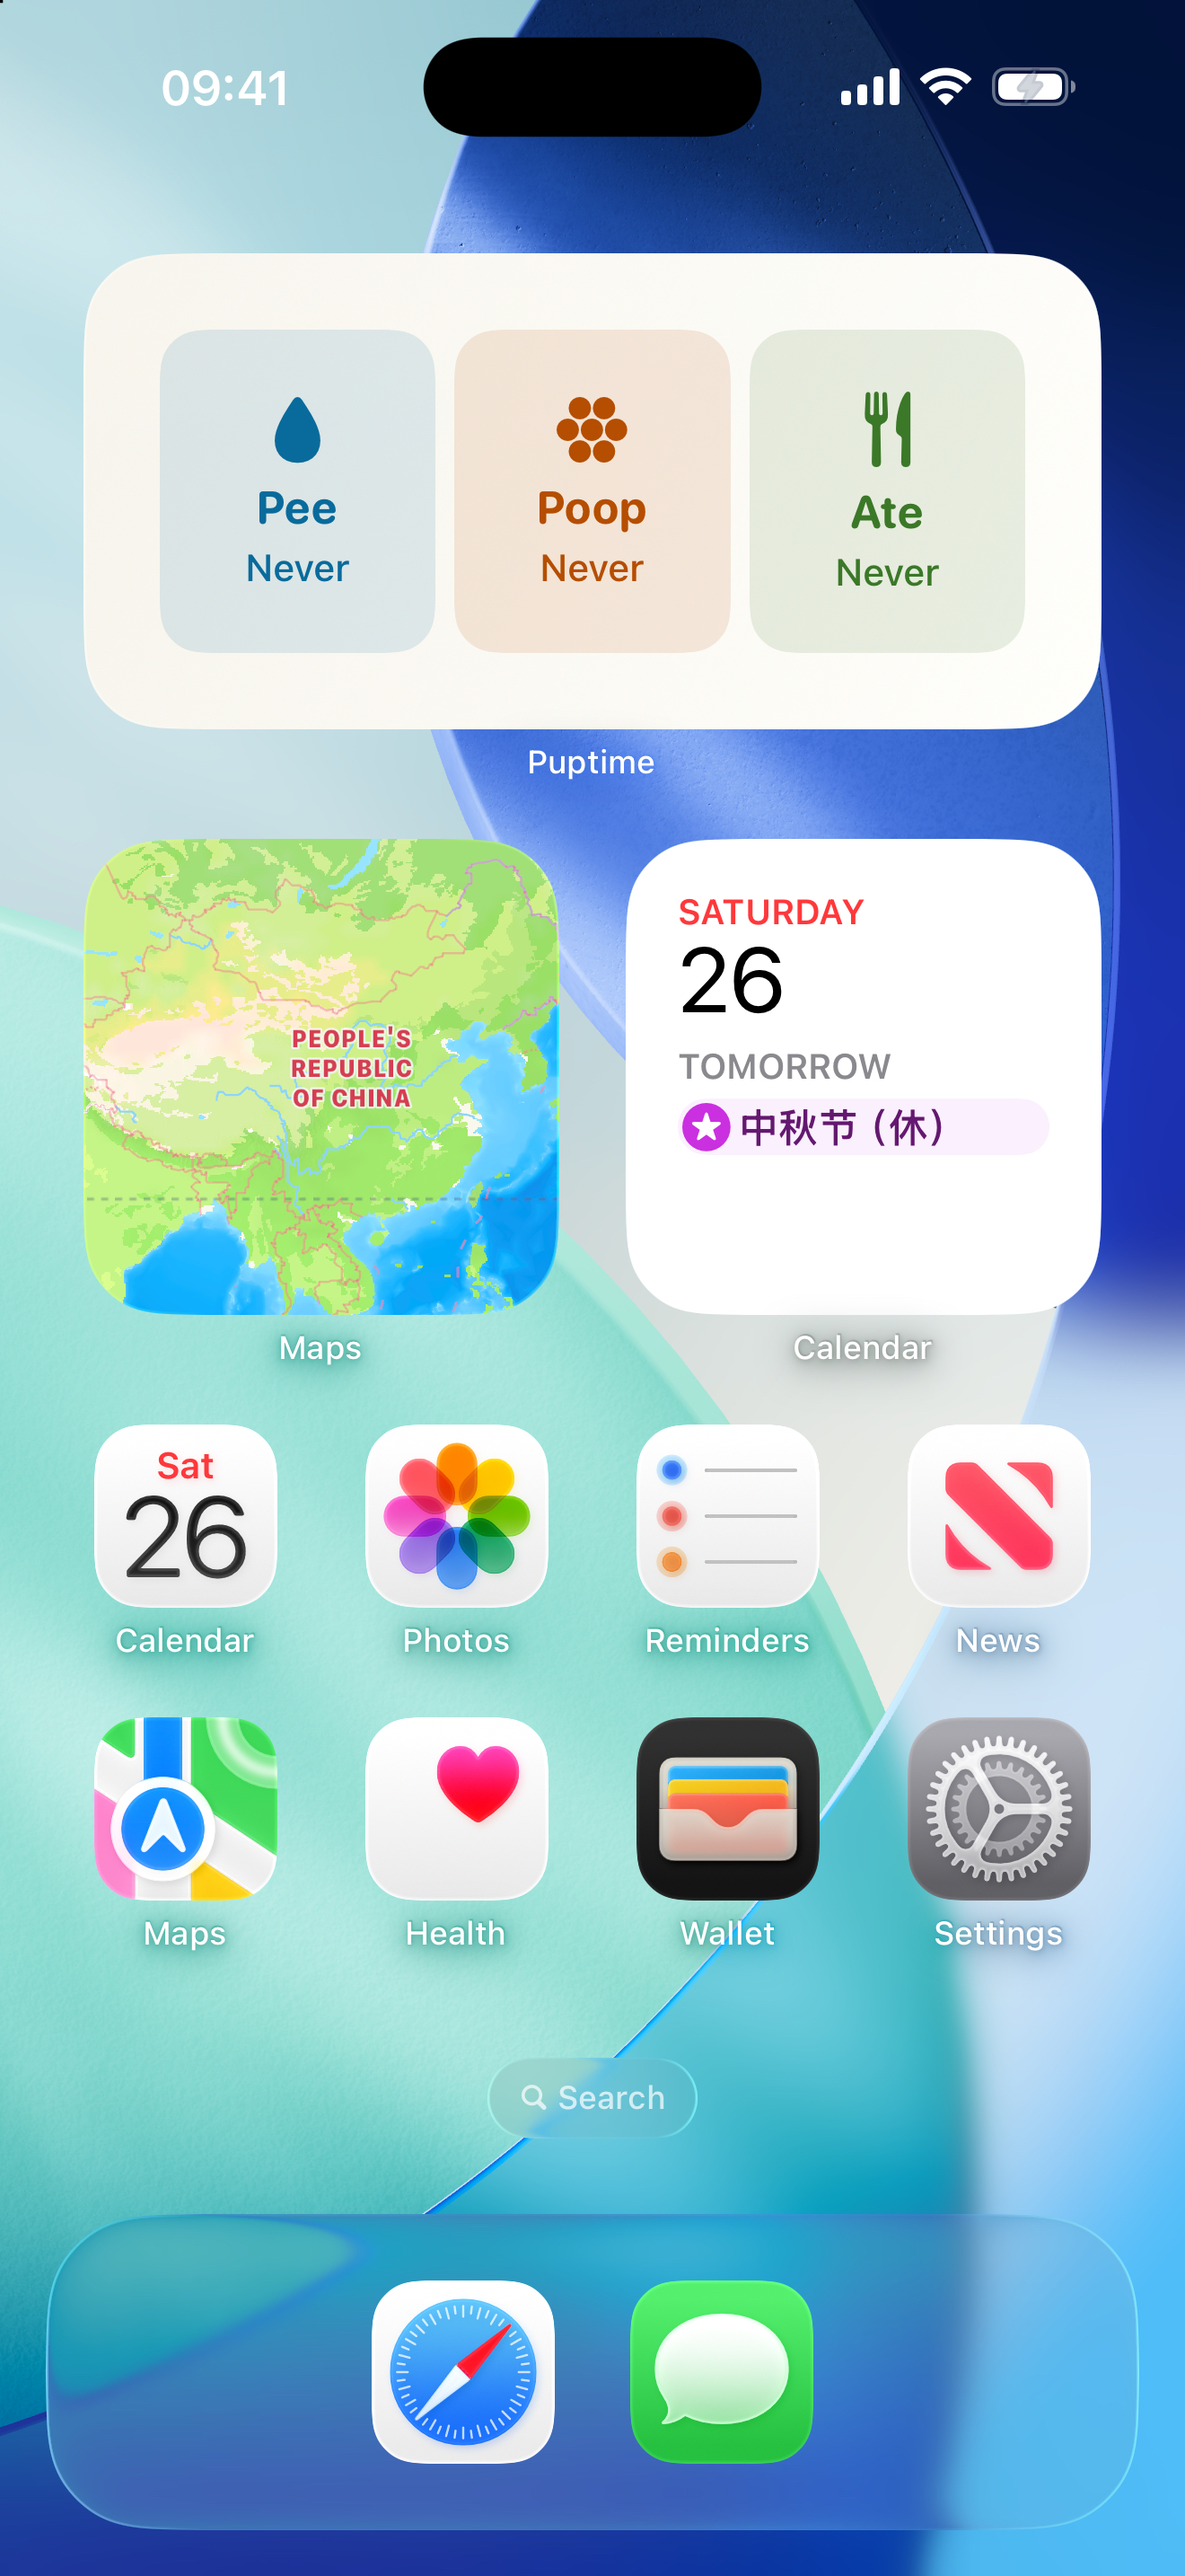
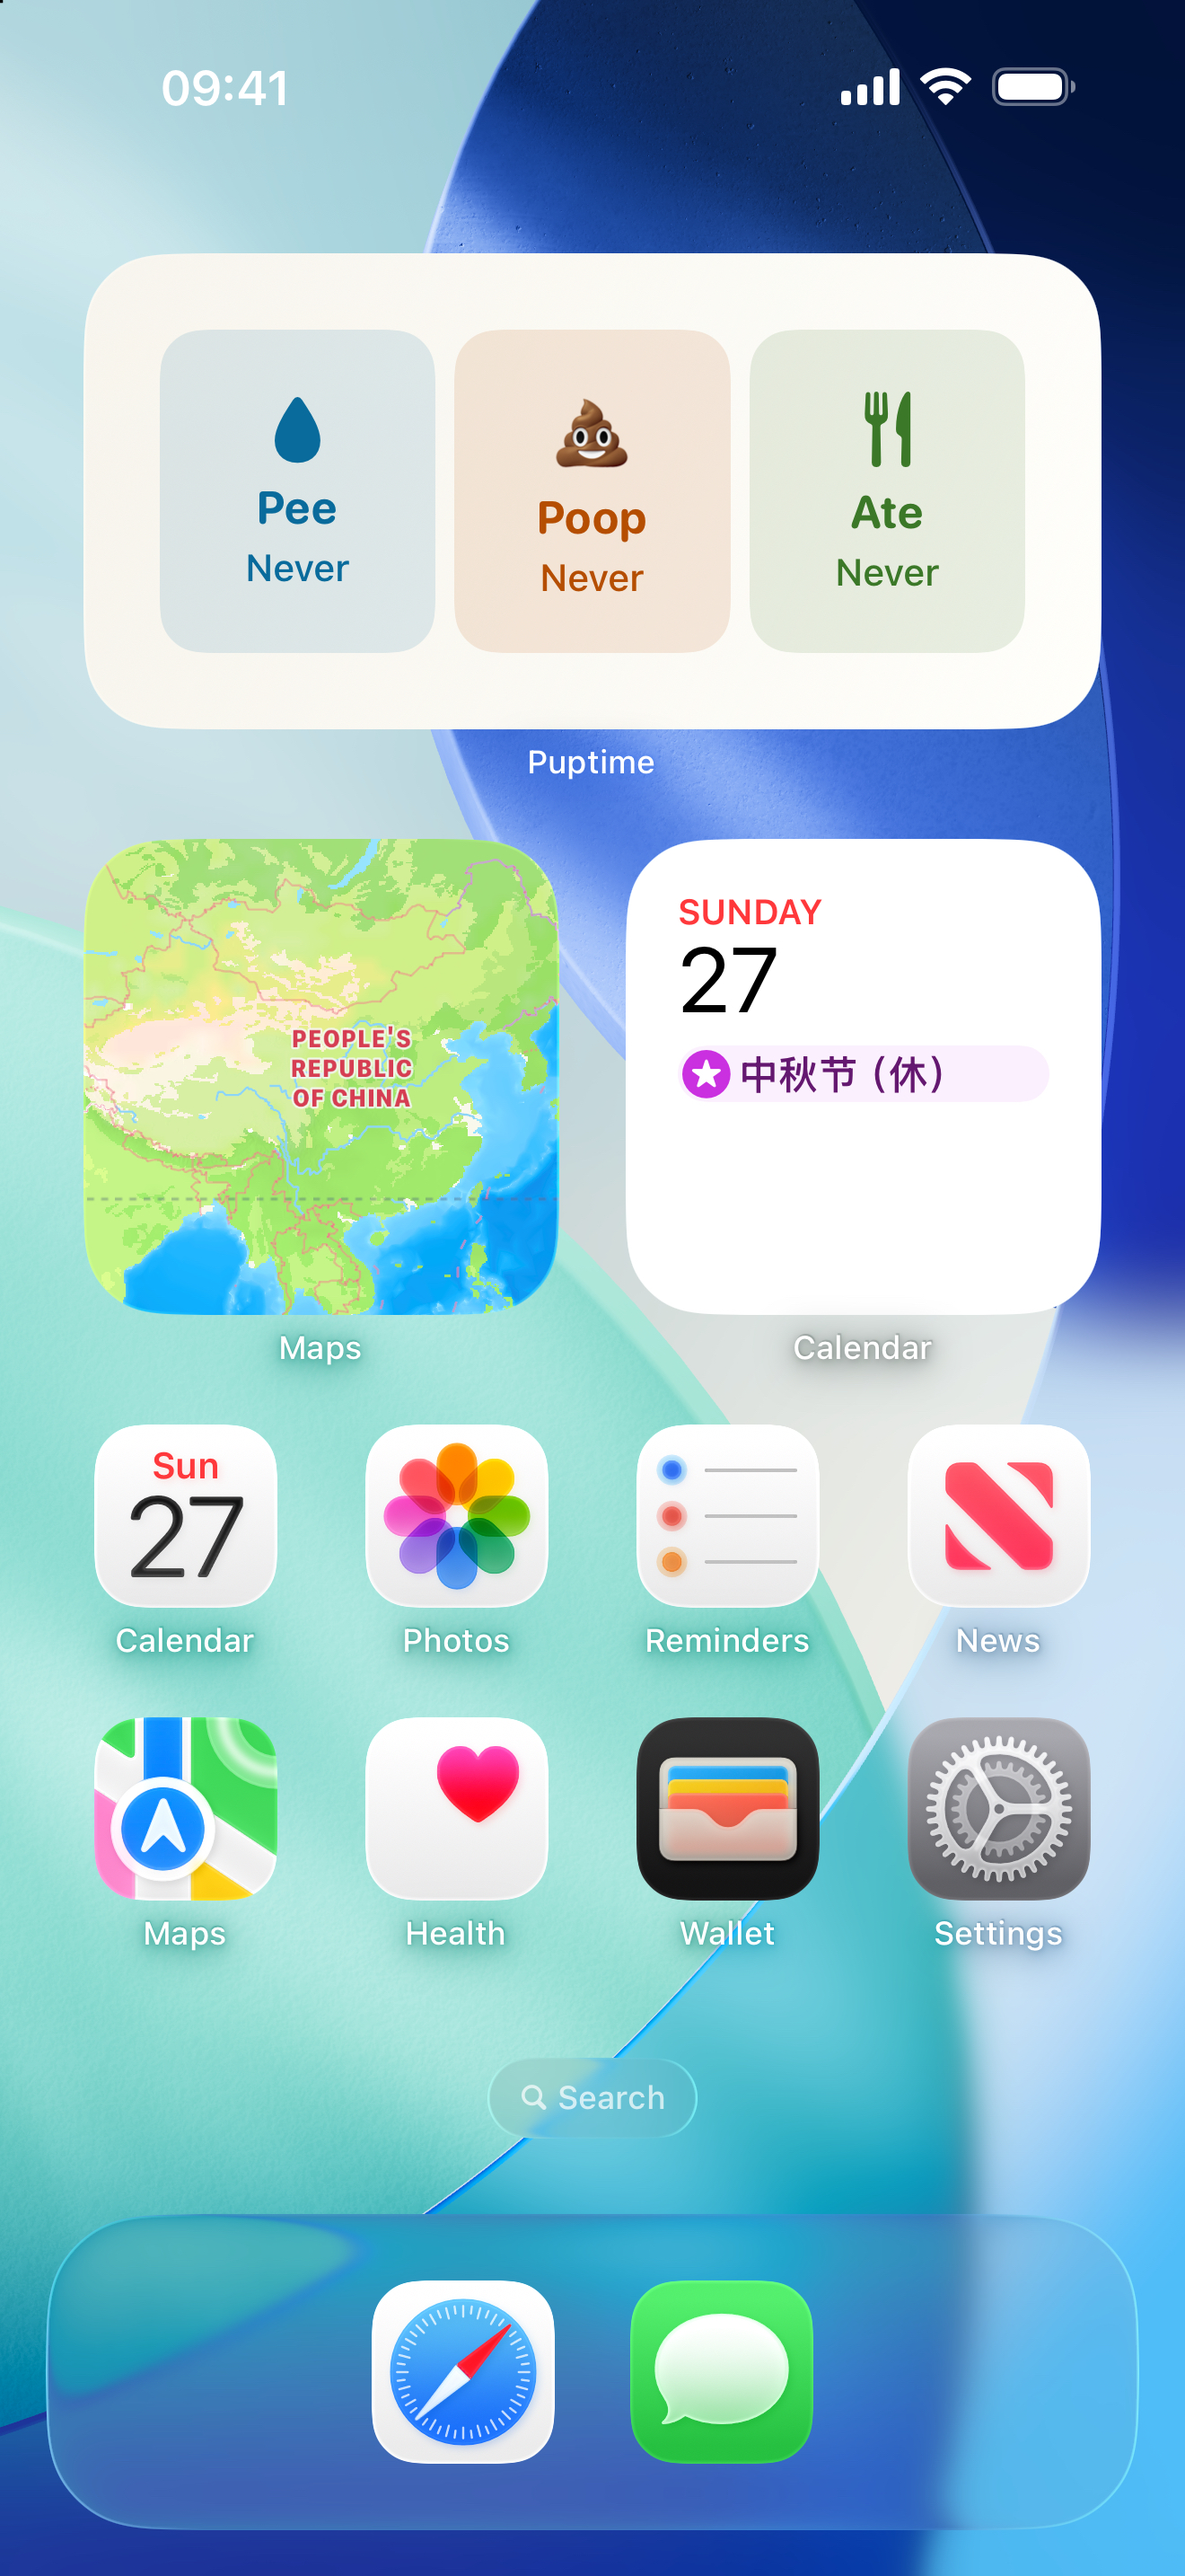
Use poop emoji in iOS quick log widget

diff --git a/src/widgets/PuptimeWidget.ios.tsx b/src/widgets/PuptimeWidget.ios.tsx
@@ -108,9 +108,7 @@ const PuptimeWidgetView = (props: PuptimeWidgetProps, environment: WidgetEnviron
         const systemImage = confirmed
           ? 'checkmark.circle.fill'
           : type === 'pee'
-          ? 'drop.fill'
-          : type === 'poop'
-            ? 'circle.hexagongrid.fill'
+            ? 'drop.fill'
             : type === 'meal'
               ? 'fork.knife'
               : type === 'pottyTrip'
@@ -128,14 +126,18 @@ const PuptimeWidgetView = (props: PuptimeWidgetProps, environment: WidgetEnviron
             modifiers={actionModifiers(color)}
           >
             <VStack spacing={4} modifiers={[padding({ vertical: 8, horizontal: 3 }), frame({ maxWidth: 999, maxHeight: 999 })]}>
-              <Image
-                systemName={systemImage}
-                modifiers={[
-                  font({ textStyle: 'title2', weight: 'semibold' }),
-                  foregroundStyle(color),
-                  accessibilityHidden(true),
-                ]}
-              />
+              {type === 'poop' && !confirmed ? (
+                <Text modifiers={[font({ textStyle: 'title' }), accessibilityHidden(true)]}>💩</Text>
+              ) : (
+                <Image
+                  systemName={systemImage}
+                  modifiers={[
+                    font({ textStyle: 'title2', weight: 'semibold' }),
+                    foregroundStyle(color),
+                    accessibilityHidden(true),
+                  ]}
+                />
+              )}
               <Text modifiers={[
                 font({ textStyle: 'subheadline', weight: 'bold', design: 'rounded' }),
                 foregroundStyle(color),

diff --git a/scripts/verify-ios-widget.swift b/scripts/verify-ios-widget.swift
@@ -37,9 +37,18 @@ func buttonCount(_ value: Any) -> Int {
   return 0
 }
 
+func containsPoopGlyph(_ value: Any) -> Bool {
+  if let string = value as? String { return string == "💩" }
+  if let array = value as? [Any] { return array.contains(where: containsPoopGlyph) }
+  if let object = value as? [String: Any] { return object.values.contains(where: containsPoopGlyph) }
+  return false
+}
+
 let rendered = invoke("__expoWidgetRender", props)
 precondition(buttonCount(rendered) == (props["actions"] as! [String]).count, "Widget did not render its quick log buttons")
-precondition(buttonCount(invoke("__expoWidgetRender", props, colorScheme: "dark")) == 3, "Dark widget did not render")
+precondition(containsPoopGlyph(rendered), "Poop action did not render a poop icon")
+let darkRendered = invoke("__expoWidgetRender", props, colorScheme: "dark")
+precondition(buttonCount(darkRendered) == 3 && containsPoopGlyph(darkRendered), "Dark widget did not render its buttons and poop icon")
 
 let pee = invoke("__expoWidgetHandlePress", props, target: "log|pee|0|en|120|30|")
 precondition(PropertyListSerialization.propertyList(pee, isValidFor: .binary), "Pee action returned invalid UserDefaults props")
